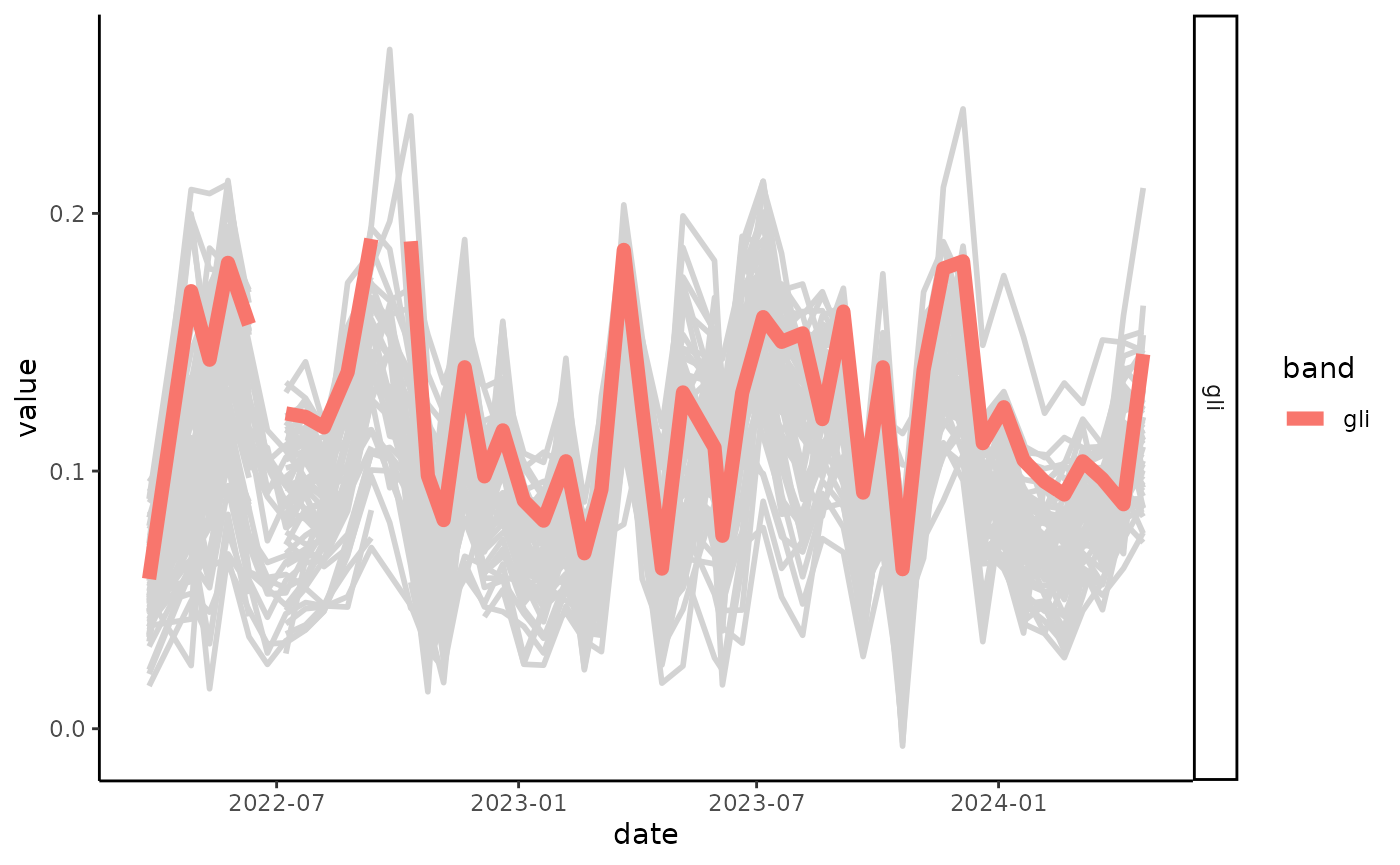
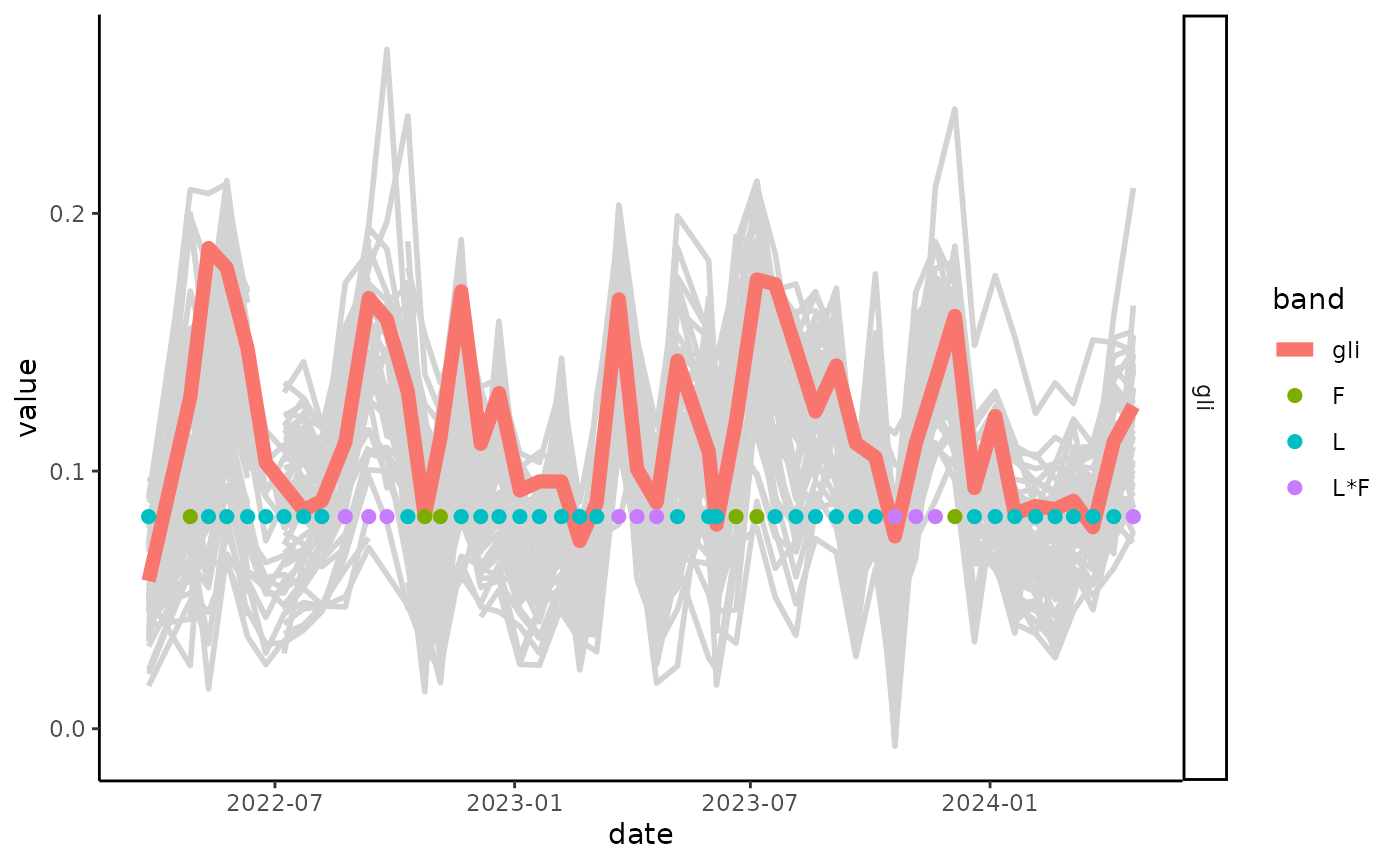
Deploying to gh-pages from @ umr-amap/canObsR@5a751ad7cd8b5501fcf6feafdbb6de98b0f57668 🚀

diff --git a/articles/workflow.html b/articles/workflow.html
@@ -203,7 +203,9 @@
 <code class="sourceCode R"><span><span class="fu"><a href="../reference/plot_signal.html">plot_signal</a></span><span class="op">(</span>data <span class="op">=</span> <span class="va">merge_data</span>, Genus <span class="op">=</span> <span class="st">'Desbordesia'</span>, slcted_id <span class="op">=</span> <span class="fl">2614</span><span class="op">)</span></span></code></pre></div>
 <p><img src="workflow_files/figure-html/unnamed-chunk-3-4.png" width="700"></p>
 <div class="sourceCode" id="cb5"><pre class="downlit sourceCode r">
-<code class="sourceCode R"><span><span class="fu"><a href="../reference/plot_signal.html">plot_signal</a></span><span class="op">(</span>data <span class="op">=</span> <span class="va">merge_data</span>, Genus <span class="op">=</span> <span class="st">'Desbordesia'</span>, slcted_id <span class="op">=</span> <span class="fl">2614</span>, Band <span class="op">=</span> <span class="fu"><a href="https://rdrr.io/r/base/c.html" class="external-link">c</a></span><span class="op">(</span><span class="st">'gli'</span>, <span class="st">'gndvi'</span><span class="op">)</span><span class="op">)</span></span></code></pre></div>
+<code class="sourceCode R"><span><span class="fu"><a href="../reference/plot_signal.html">plot_signal</a></span><span class="op">(</span>data <span class="op">=</span> <span class="va">merge_data</span>, Genus <span class="op">=</span> <span class="st">'Desbordesia'</span>, slcted_id <span class="op">=</span> <span class="fl">936</span>, Band <span class="op">=</span> <span class="st">'gli'</span>, show_Labels <span class="op">=</span> <span class="cn">TRUE</span><span class="op">)</span></span>
+<span><span class="co">#&gt; Warning in ggplot2::geom_point(data = dplyr::filter(data, highlight ==</span></span>
+<span><span class="co">#&gt; paste(slcted_id)), : Ignoring unknown parameters: `fontface`</span></span></code></pre></div>
 <p><img src="workflow_files/figure-html/unnamed-chunk-3-5.png" width="700"></p>
   </main>
 </div>
